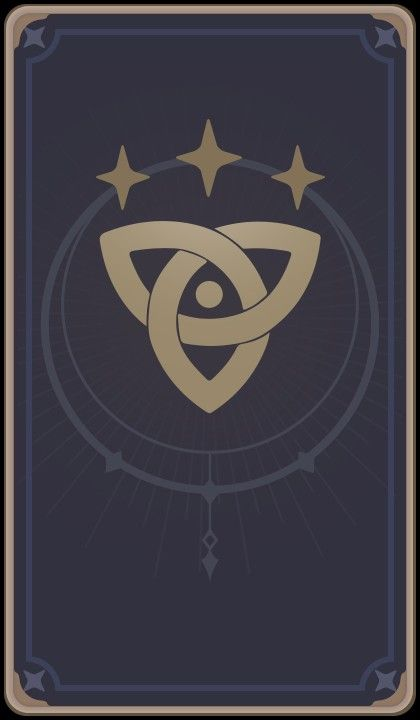
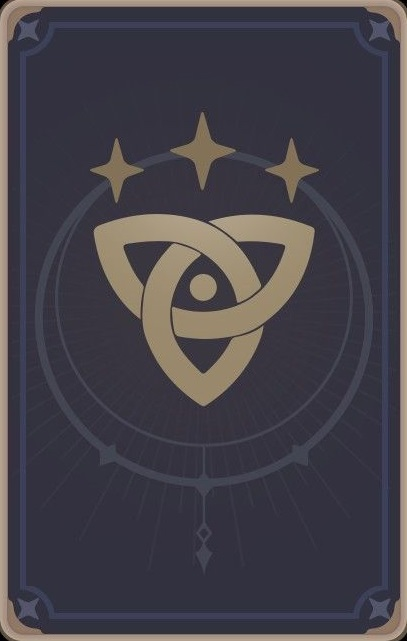
...

Changed region(s): [[0.0, 0.0, 1.0, 1.0], [0.2064, 0.156, 0.7961, 0.6552]]

diff --git a/css/game.css b/css/game.css
@@ -10,7 +10,6 @@
 .card {
     aspect-ratio: 2/3; /*proporção do elemento*/
     width: 100%;
-    background-color: blue;
     border-radius: 5px;
     position: relative; /* as faces respeitam as delimitações do card*/
     transition: all 400ms ease;
@@ -23,6 +22,8 @@
     position: absolute;
     background-size: cover;
     background-position: center;
+    border: 2px solid #363B4A;
+    border-radius: 10px;
 }
 
 .front {
